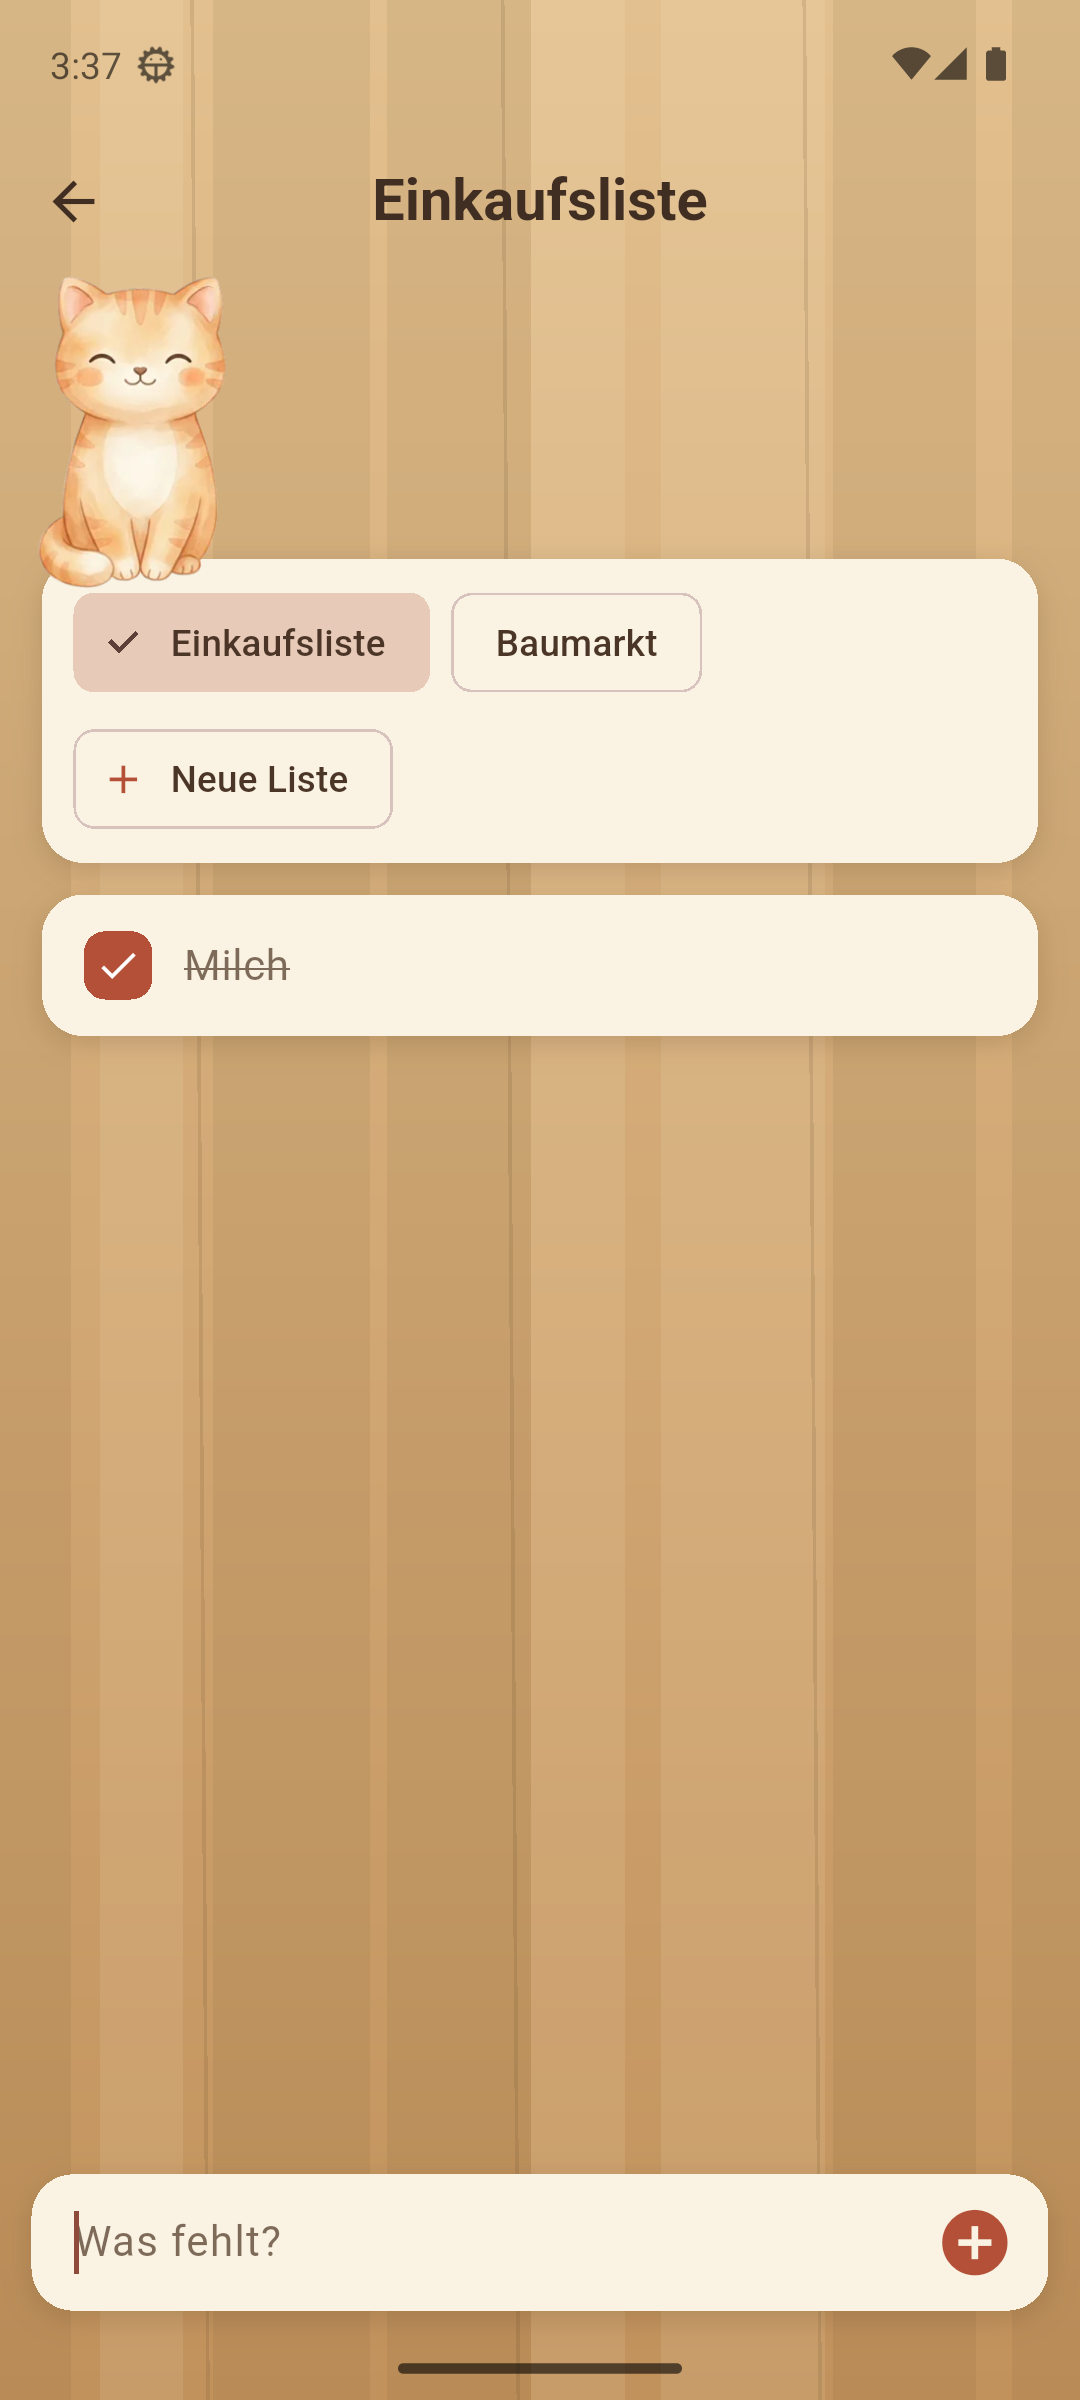
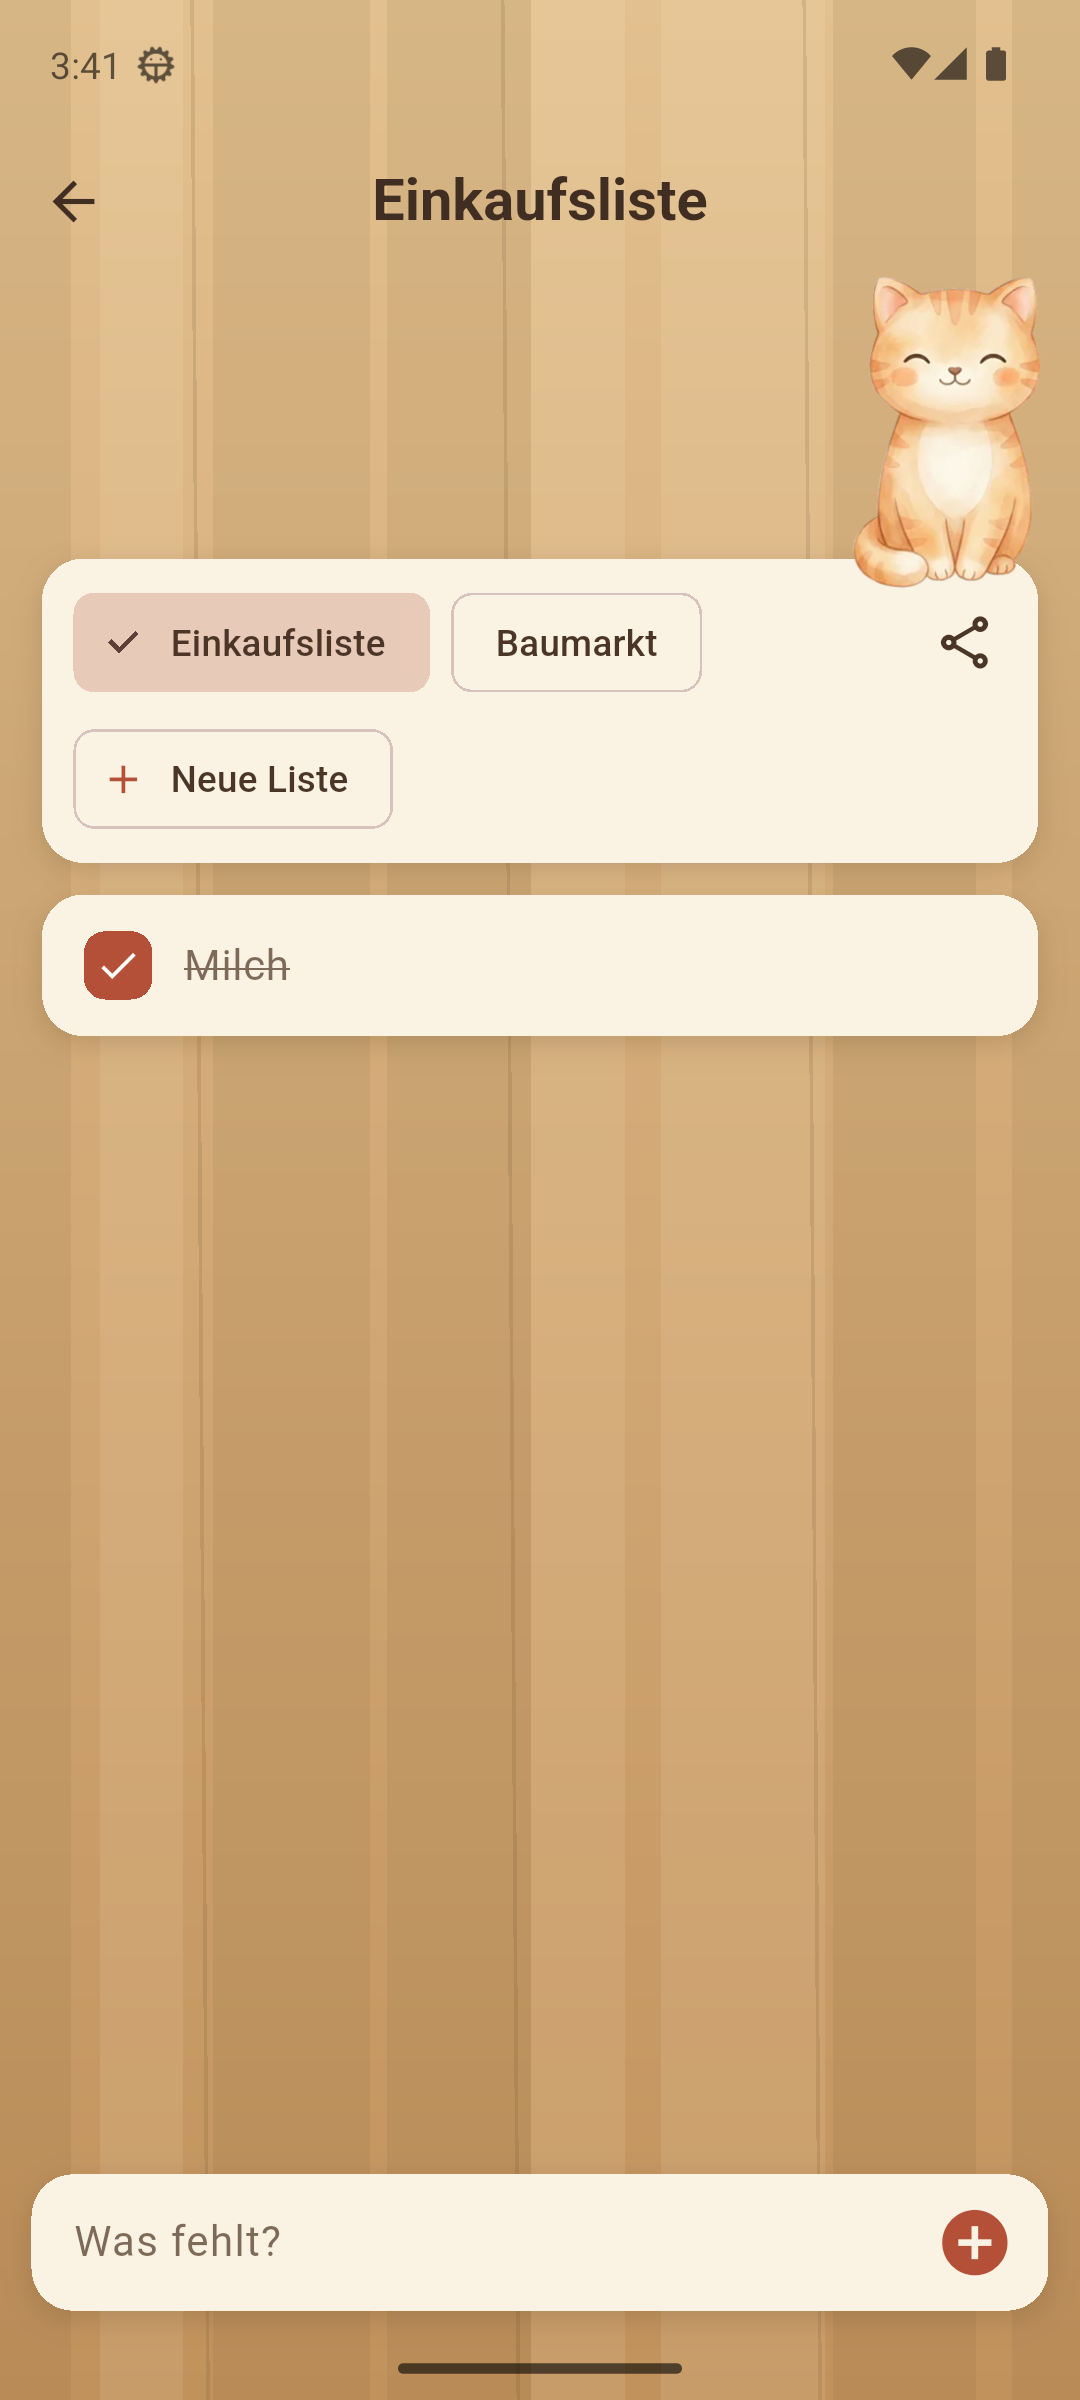
joe-todo: Einkaufsliste teilen, Version 1.3.0+7
Rechts auf der Listenkarte sitzt 'Liste teilen': die gezeigte Liste geht als Text an das Teilen-Blatt des Systems, oben der Name, darunter die offenen Eintraege. Abgehakte bleiben draussen; ohne Offenes kommt ein Hinweis statt einer leeren Nachricht. Joe spricht dafuer nicht ins Netz, die Empfaenger brauchen kein Joe.

Version 1.3.0+7: neue Funktionen (mehrere Listen, Teilen), gespeicherte Daten in neuer Form.

Changed region(s): [[0.7944, 0.0938, 0.9778, 0.2812], [0.0306, 0.0938, 0.2139, 0.25]]

diff --git a/app/lib/screens/shopping.dart b/app/lib/screens/shopping.dart
@@ -1,6 +1,9 @@
 import 'package:flutter/material.dart';
+import 'package:share_plus/share_plus.dart';
 
+import '../log.dart';
 import '../models.dart';
+import '../toast.dart';
 import '../widgets.dart';
 
 /// Die Einkaufsliste als eigener Reiter (Modus [ShoppingListMode.tab]).
@@ -132,7 +135,8 @@ class _ShoppingListViewState extends State<ShoppingListView> {
 
 /// Die Karte mit der Wahl der Liste: jede Liste ein Chip, dahinter
 /// "Neue Liste". Ein Tipp zeigt die Liste, langer Druck fuehrt wie bei den
-/// Eintraegen auf Bearbeiten und Loeschen.
+/// Eintraegen auf Bearbeiten und Loeschen. Rechts daneben das Teilen der
+/// gezeigten Liste.
 ///
 /// Chips und keine Ausklappliste: beim Einkaufen soll man sehen, welche
 /// Listen es gibt, und mit einem Tipp wechseln.
@@ -175,45 +179,86 @@ class _ListPicker extends StatelessWidget {
     );
   }
 
+  /// Schickt die offenen Eintraege als Text an den Share-Intent des Systems
+  /// (siehe [ShoppingList.shareText]) – Messenger, Mail, was das Geraet hat.
+  /// Die Empfaenger brauchen dafuer kein Joe.
+  Future<void> _share(BuildContext context, ShoppingList list) async {
+    final text = list.shareText;
+    if (text == null) {
+      JoeToast.info('Auf der Liste fehlt gerade nichts.');
+      return;
+    }
+    // Auf iPad und Mac ist das Teilen-Blatt ein Popover und will wissen,
+    // woran es haengen soll (wie bei "Logs teilen").
+    final box = context.findRenderObject() as RenderBox?;
+    final origin = box != null && box.hasSize
+        ? box.localToGlobal(Offset.zero) & box.size
+        : null;
+    try {
+      await SharePlus.instance.share(
+        ShareParams(
+          text: text,
+          subject: list.name,
+          sharePositionOrigin: origin,
+        ),
+      );
+      JoeLog.log('Einkaufsliste geteilt (${list.id})');
+    } catch (e) {
+      JoeLog.log('Einkaufsliste teilen fehlgeschlagen: $e');
+      JoeToast.error('Die Liste ließ sich nicht teilen.');
+    }
+  }
+
   @override
   Widget build(BuildContext context) {
     final state = AppScope.of(context);
     final theme = joeThemeOf(context);
     final current = state.currentShoppingList;
+    final chips = Wrap(
+      spacing: 8,
+      runSpacing: 4,
+      children: [
+        for (final list in state.shoppingLists)
+          // Der Chip selbst kennt keinen langen Druck; der Detektor darueber
+          // bekommt ihn, der Tipp bleibt beim Chip.
+          Semantics(
+            onLongPress: () => _options(context, list),
+            child: GestureDetector(
+              onLongPress: () => _options(context, list),
+              child: ChoiceChip(
+                label: Text(list.name),
+                selected: list.id == current.id,
+                selectedColor: theme.accent.withValues(alpha: 0.25),
+                labelStyle: TextStyle(color: theme.ink),
+                onSelected: (_) => state.selectShoppingList(list),
+              ),
+            ),
+          ),
+        ActionChip(
+          avatar: Icon(Icons.add, size: 18, color: theme.accent),
+          label: const Text('Neue Liste'),
+          labelStyle: TextStyle(color: theme.ink),
+          onPressed: () => _add(context),
+        ),
+      ],
+    );
     return Padding(
       padding: const EdgeInsets.only(bottom: 12),
       child: PaperCard(
-        padding: const EdgeInsets.symmetric(horizontal: 12, vertical: 8),
-        child: SizedBox(
-          width: double.infinity,
-          child: Wrap(
-            spacing: 8,
-            runSpacing: 4,
-            children: [
-              for (final list in state.shoppingLists)
-                // Der Chip selbst kennt keinen langen Druck; der Detektor
-                // darueber bekommt ihn, der Tipp bleibt beim Chip.
-                Semantics(
-                  onLongPress: () => _options(context, list),
-                  child: GestureDetector(
-                    onLongPress: () => _options(context, list),
-                    child: ChoiceChip(
-                      label: Text(list.name),
-                      selected: list.id == current.id,
-                      selectedColor: theme.accent.withValues(alpha: 0.25),
-                      labelStyle: TextStyle(color: theme.ink),
-                      onSelected: (_) => state.selectShoppingList(list),
-                    ),
-                  ),
-                ),
-              ActionChip(
-                avatar: Icon(Icons.add, size: 18, color: theme.accent),
-                label: const Text('Neue Liste'),
-                labelStyle: TextStyle(color: theme.ink),
-                onPressed: () => _add(context),
+        padding: const EdgeInsets.fromLTRB(12, 8, 4, 8),
+        child: Row(
+          crossAxisAlignment: CrossAxisAlignment.start,
+          children: [
+            Expanded(child: chips),
+            // Eigener Kontext fuer den Knopf: an ihm haengt das Popover.
+            Builder(
+              builder: (buttonContext) => IconButton(
+                icon: Icon(Icons.share_outlined, color: theme.ink),
+                tooltip: 'Liste teilen',
+                onPressed: () => _share(buttonContext, current),
               ),
-            ],
-          ),
+            ),
+          ],
         ),
       ),
     );

diff --git a/app/test/shopping_test.dart b/app/test/shopping_test.dart
@@ -1,4 +1,5 @@
 import 'package:flutter/material.dart';
+import 'package:flutter/services.dart';
 import 'package:flutter_test/flutter_test.dart';
 
 import 'package:joe_todo/main.dart';
@@ -340,6 +341,56 @@ void main() {
       expect(isChosen(tester, 'Baumarkt'), isTrue);
       await tap(tester, chip('Einkaufsliste'));
       expect(find.text('Milch'), findsOneWidget);
+    });
+  });
+
+  group('Teilen', () {
+    // Der Kanal, ueber den share_plus das Teilen-Blatt des Systems ruft.
+    const channel = MethodChannel('dev.fluttercommunity.plus/share');
+
+    /// Faengt ab, was geteilt wuerde, statt ein Blatt zu oeffnen.
+    List<Map<Object?, Object?>> captureShares(WidgetTester tester) {
+      final shared = <Map<Object?, Object?>>[];
+      final messenger = tester.binding.defaultBinaryMessenger;
+      messenger.setMockMethodCallHandler(channel, (call) async {
+        shared.add(call.arguments as Map<Object?, Object?>);
+        return 'dev.fluttercommunity.plus/share/success';
+      });
+      addTearDown(() => messenger.setMockMethodCallHandler(channel, null));
+      return shared;
+    }
+
+    testWidgets('teilt die gezeigte Liste als Text, nur das Offene',
+        (tester) async {
+      final shared = captureShares(tester);
+      await pump(
+        tester,
+        items: [
+          item('1', 'Milch'),
+          item('2', 'Brot', minute: 1),
+        ],
+      );
+      await tap(tester, find.text('Einkaufsliste'));
+      await tap(tester, find.text('Brot'));
+
+      await tap(tester, find.byTooltip('Liste teilen'));
+      expect(shared, hasLength(1));
+      expect(shared.single['text'], 'Einkaufsliste\n- Milch');
+      expect(shared.single['subject'], 'Einkaufsliste');
+    });
+
+    testWidgets('eine Liste ohne Offenes: Hinweis statt Teilen-Blatt',
+        (tester) async {
+      final shared = captureShares(tester);
+      await pump(tester);
+      await tap(tester, find.text('Einkaufsliste'));
+
+      await tester.tap(find.byTooltip('Liste teilen'));
+      await tester.pump();
+      expect(shared, isEmpty);
+      expect(find.text('Auf der Liste fehlt gerade nichts.'), findsOneWidget);
+      await tester.pump(JoeToast.showDuration);
+      await tester.pumpAndSettle();
     });
   });
 

diff --git a/app/test/shopping_model_test.dart b/app/test/shopping_model_test.dart
@@ -168,6 +168,33 @@ void main() {
     });
   });
 
+  group('Teilen', () {
+    test('Name, darunter die offenen Eintraege in Anzeigereihenfolge', () {
+      final state = withItems([
+        ShoppingItem(id: '2', title: 'Brot', createdAt: DateTime(2026, 9, 2)),
+        ShoppingItem(
+          id: '1',
+          title: 'Käse',
+          createdAt: DateTime(2026, 9, 1),
+          done: true,
+        ),
+        ShoppingItem(id: '3', title: 'Eier', createdAt: DateTime(2026, 9, 3)),
+        ShoppingItem(id: '0', title: 'Milch', createdAt: DateTime(2026, 9, 1)),
+      ]);
+      expect(
+        state.currentShoppingList.shareText,
+        'Einkaufsliste\n- Milch\n- Brot\n- Eier',
+      );
+    });
+
+    test('nichts Offenes heisst: nichts zu teilen', () {
+      final state = AppState();
+      expect(state.currentShoppingList.shareText, isNull);
+      state.toggleShoppingItem(state.addShoppingItem('Milch')!);
+      expect(state.currentShoppingList.shareText, isNull);
+    });
+  });
+
   group('Bestand', () {
     test('JSON-Rundreise', () {
       final item = ShoppingItem(

diff --git a/app/lib/models.dart b/app/lib/models.dart
@@ -652,6 +652,19 @@ class ShoppingList {
     return [for (final (_, item) in indexed) item];
   }
 
+  /// Die Liste als Text zum Verschicken (Messenger, Mail): der Name, darunter
+  /// die offenen Eintraege. Abgehakte bleiben draussen – geteilt wird, was
+  /// noch fehlt. Ohne offene Eintraege null: eine Nachricht nur mit dem
+  /// Namen hilft niemandem.
+  String? get shareText {
+    final open = [
+      for (final item in sortedItems)
+        if (!item.done) item,
+    ];
+    if (open.isEmpty) return null;
+    return [name, for (final item in open) '- ${item.title}'].join('\n');
+  }
+
   Map<String, dynamic> toJson() => {
         'id': id,
         'name': name,

diff --git a/README.md b/README.md
@@ -255,6 +255,14 @@ Dashboard, Kalender, wiederkehrenden Aufgaben, Notizen und Historie.
   Irgendwohin muss das Eingabefeld schreiben. Die eine Liste aus der Zeit vor
   mehreren Listen (bis 1.2.0) wird beim ersten Start zur Liste
   „Einkaufsliste", mit allen Einträgen.
+  Rechts auf der Karte sitzt **„Liste teilen"**: Es reicht die gezeigte
+  Liste als Text an das Teilen-Blatt des Systems weiter (Messenger, Mail),
+  oben der Name, darunter je Zeile „- Eintrag" (`ShoppingList.shareText`).
+  Geteilt wird nur, was noch offen ist; das Abgehakte ist schon gekauft. Ist
+  nichts offen, sagt ein Toast das, statt eine leere Nachricht zu öffnen. Die
+  Empfänger brauchen kein Joe. Es ist ein Schnappschuss und keine gemeinsame
+  Liste: Was danach abgehakt wird, sieht nur das eigene Gerät. Joe spricht
+  dafür nicht ins Netz, das Verschicken macht die gewählte App.
   Hinzugefügt wird über ein Eingabefeld **am unteren Rand**, dort ist der
   Daumen, die Tastatur schiebt es mit hoch, und neue Einträge landen genau
   darüber, unten bei den offenen – dort, wo der Blick beim Tippen gerade
@@ -805,7 +813,9 @@ beiden Modi dieselben. Bis 1.2.0 stand dort genau eine Liste unter
 `shopping`; `load()` übernimmt sie als erste Liste, beim nächsten Speichern
 fällt der alte Schlüssel weg. Das Log nennt nur IDs und die Anzahl, nie
 einen Eintrag oder Listennamen, und in den Widget-Schnappschuss kommen sie
-nicht.
+nicht. „Liste teilen" ist der einzige Weg, auf dem Einträge das Gerät
+verlassen, und nur auf Knopfdruck und an die App, die man im Teilen-Blatt
+wählt; das Log vermerkt dabei nur die ID der Liste.
 
 Für die Erinnerungen kommen POST_NOTIFICATIONS (ab Android 13 zur Laufzeit
 bestätigt), RECEIVE_BOOT_COMPLETED (Plan nach einem Neustart neu stellen) und
@@ -1005,7 +1015,7 @@ eingetragen (aktuell 3.47.1) und sollte mit der lokalen uebereinstimmen.
 
 Bei einem Push auf `main` landet das APK zusaetzlich als GitHub-Release unter
 dem Tag `joe-todo-v<version>` (Version aus `app/pubspec.yaml`, aktuell
-`1.2.0+6` → `joe-todo-v1.2.0+6`). Der Projektname im Tag stammt aus der Zeit
+`1.3.0+7` → `joe-todo-v1.3.0+7`). Der Projektname im Tag stammt aus der Zeit
 im Sammel-Repo AI_things und ist fuer durchgehende Tags geblieben. Solange die
 Version in `pubspec.yaml` unveraendert bleibt, wird dasselbe Release
 ueberschrieben und der Tag auf den neuen Commit gesetzt; fuer einen dauerhaft
